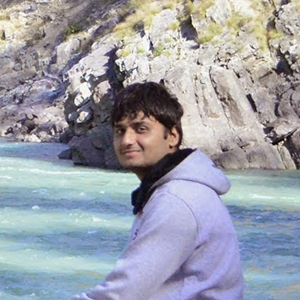
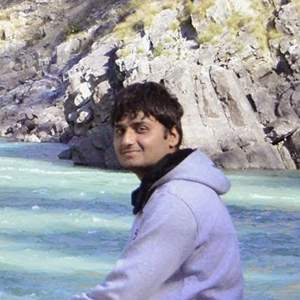
Reduced filesize

Changed region(s): [[0.93, 0.03, 0.96, 0.06], [0.42, 0.21, 0.45, 0.24], [0.39, 0.15, 0.42, 0.18]]

diff --git a/assets/js/jquery.smoothwheel.js b/assets/js/jquery.smoothwheel.js
@@ -1,0 +1,153 @@
+/**
+ * Created by IntelliJ IDEA.
+ *
+ * User: phil
+ * Date: 15/11/12
+ * Time: 11:04 AM
+ *
+ */
+(function ($) {
+
+    var self = this, container, running=false, currentY = 0, targetY = 0, oldY = 0, maxScrollTop= 0, minScrollTop, direction, onRenderCallback=null,
+            fricton = 0.95, // higher value for slower deceleration
+            vy = 0,
+            stepAmt = 1,
+            minMovement= 0.1,
+            ts=0.1;
+
+    var updateScrollTarget = function (amt) {
+        targetY += amt;
+        vy += (targetY - oldY) * stepAmt;
+      
+        oldY = targetY;
+
+
+    }
+    var render = function () {
+        if (vy < -(minMovement) || vy > minMovement) {
+
+            currentY = (currentY + vy);
+            if (currentY > maxScrollTop) {
+                currentY = vy = 0;
+            } else if (currentY < minScrollTop) {
+                    vy = 0;
+                    currentY = minScrollTop;
+                }
+           
+            container.scrollTop(-currentY);
+
+            vy *= fricton;
+            
+         //   vy += ts * (currentY-targetY);
+            // scrollTopTweened += settings.tweenSpeed * (scrollTop - scrollTopTweened);
+            // currentY += ts * (targetY - currentY);
+
+            if(onRenderCallback){
+                onRenderCallback();
+            }
+        }
+    }
+    var animateLoop = function () {
+        if(! running)return;
+        requestAnimFrame(animateLoop);
+        render();
+        //log("45","animateLoop","animateLoop", "",stop);
+    }
+    var onWheel = function (e) {
+        e.preventDefault();
+        var evt = e.originalEvent;
+       
+        var delta = evt.detail ? evt.detail * -1 : evt.wheelDelta / 40;
+        var dir = delta < 0 ? -1 : 1;
+        if (dir != direction) {
+            vy = 0;
+            direction = dir;
+        }
+
+        //reset currentY in case non-wheel scroll has occurred (scrollbar drag, etc.)
+        currentY = -container.scrollTop();
+        
+        updateScrollTarget(delta);
+    }
+
+    /*
+     * http://paulirish.com/2011/requestanimationframe-for-smart-animating/
+     */
+    window.requestAnimFrame = (function () {
+        return  window.requestAnimationFrame ||
+                window.webkitRequestAnimationFrame ||
+                window.mozRequestAnimationFrame ||
+                window.oRequestAnimationFrame ||
+                window.msRequestAnimationFrame ||
+                function (callback) {
+                    window.setTimeout(callback, 1000 / 60);
+                }; 
+              
+                
+    })();
+
+    /*
+     * http://jsbin.com/iqafek/2/edit
+     */
+    var normalizeWheelDelta = function () {
+        // Keep a distribution of observed values, and scale by the
+        // 33rd percentile.
+        var distribution = [], done = null, scale = 30;
+        return function (n) {
+            // Zeroes don't count.
+            if (n == 0) return n;
+            // After 500 samples, we stop sampling and keep current factor.
+            if (done != null) return n * done;
+            var abs = Math.abs(n);
+            // Insert value (sorted in ascending order).
+            outer: do { // Just used for break goto
+                for (var i = 0; i < distribution.length; ++i) {
+                    if (abs <= distribution[i]) {
+                        distribution.splice(i, 0, abs);
+                        break outer;
+                    }
+                }
+                distribution.push(abs);
+            } while (false);
+            // Factor is scale divided by 33rd percentile.
+            var factor = scale / distribution[Math.floor(distribution.length / 3)];
+            if (distribution.length == 500) done = factor;
+            return n * factor;
+        };
+    }();
+
+
+    $.fn.smoothWheel = function () {
+        //  var args = [].splice.call(arguments, 0);
+        var options = jQuery.extend({}, arguments[0]);
+        return this.each(function (index, elm) {
+
+            if(!('ontouchstart' in window)){
+                container = $(this);
+                container.bind("mousewheel", onWheel);
+                container.bind("DOMMouseScroll", onWheel);
+
+                //set target/old/current Y to match current scroll position to prevent jump to top of container
+                targetY = oldY = container.get(0).scrollTop;
+                currentY = -targetY;
+                
+                minScrollTop = container.get(0).clientHeight - container.get(0).scrollHeight;
+                if(options.onRender){
+                    onRenderCallback = options.onRender;
+                }
+                if(options.remove){
+                    log("122","smoothWheel","remove", "");
+                    running=false;
+                    container.unbind("mousewheel", onWheel);
+                    container.unbind("DOMMouseScroll", onWheel);
+                }else if(!running){
+                    running=true;
+                    animateLoop();
+                }
+
+            }
+        });
+    };
+
+
+})(jQuery);

diff --git a/_layouts/page.html b/_layouts/page.html
@@ -15,7 +15,7 @@
           <div class="post-meta">
             <h1 class="post-title">{{ page.title }}</h1>
             <div class="cf post-meta-text">
-              <div class="author-image" style="background-image: url({{ site.author_image }})">Blog Logo</div>
+              <div class="author-image" style="background-image: url({{ site.autho_image }})">Blog Logo</div>
               <h4 class="author-name" itemprop="author" itemscope itemtype="http://schema.org/Person">{{ site.author }}</h4>
             </div>
             <div style="text-align:center">

diff --git a/_layouts/post.html b/_layouts/post.html
@@ -82,16 +82,6 @@
         </div>
       </article>
     </main>
-    <div class="bottom-closer">
-      <div class="background-closer-image" {%if site.cover %} style="background-image: url({{ site.cover }})"{% endif %}>
-        Image
-      </div>
-      <div class="inner">
-        <h1 class="blog-title">{{ site.title }}</h1>
-        <h2 class="blog-description">{{ site.description }}</h2>
-        <a href="/" class="btn">Back to Overview</a>
-      </div>
-    </div>
     {% include javascripts.html %}
   </body>
 </html>

diff --git a/_includes/javascripts.html b/_includes/javascripts.html
@@ -1,4 +1,4 @@
-<script src="https://code.jquery.com/jquery-1.11.1.min.js"></script>
+<script src="https://ajax.googleapis.com/ajax/libs/jquery/1.8.1/jquery.min.js"></script>
 <script type="text/javascript" src="{{ "/assets/js/jquery.fitvids.js" | prepend: site.baseurl  }}"></script>
 <script type="text/javascript" src="{{ "/assets/js/index.js" | prepend: site.baseurl  }}"></script>
 <script type="text/javascript" src="{{ "/assets/js/readingTime.min.js" | prepend: site.baseurl  }}"></script>

diff --git a/_layouts/default.html b/_layouts/default.html
@@ -5,8 +5,6 @@
 
   <body>
 
-    {% include header.html %}
-
     <!-- content start -->
 
     <div class="page-content">

diff --git a/README.md b/README.md
@@ -1,3 +1,1 @@
-My Blog
-========
-Feel free to open issues if you run into trouble or have suggestions. Pull Requests always welcome.
+# Hosting for my blog at http://ashishchaudhary.in
